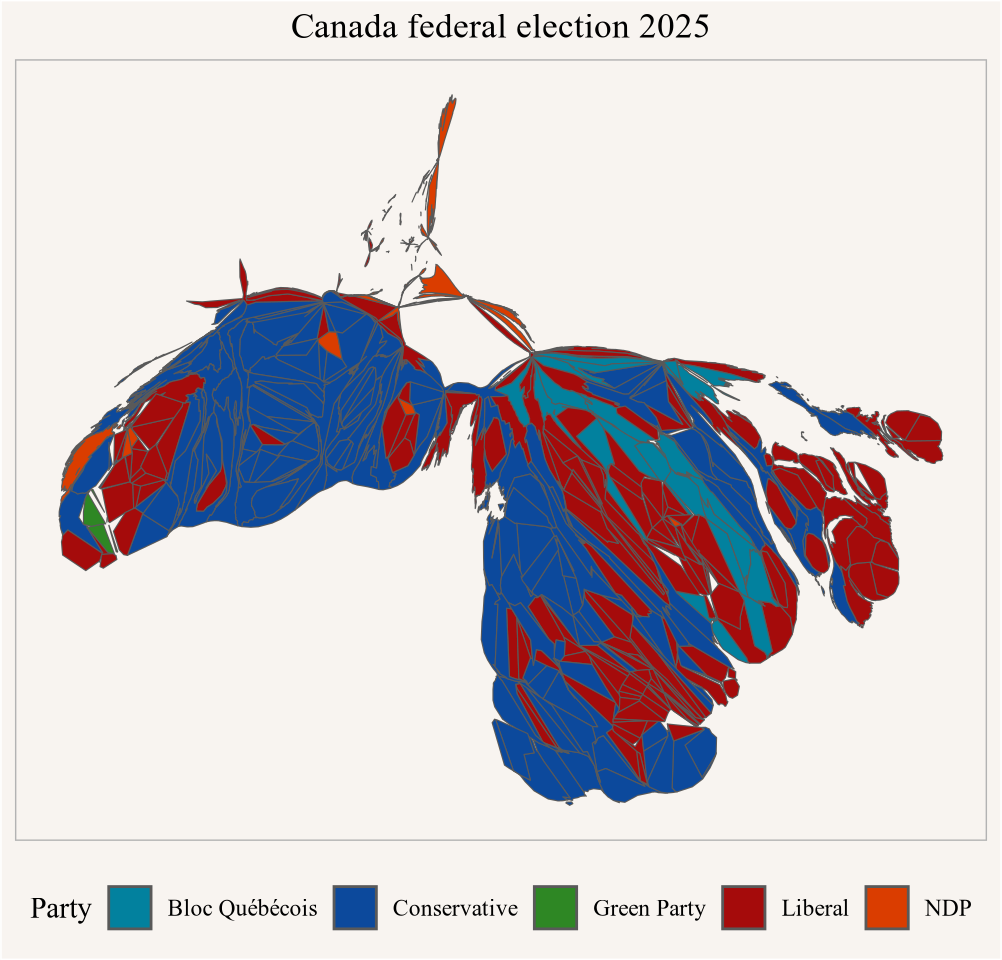
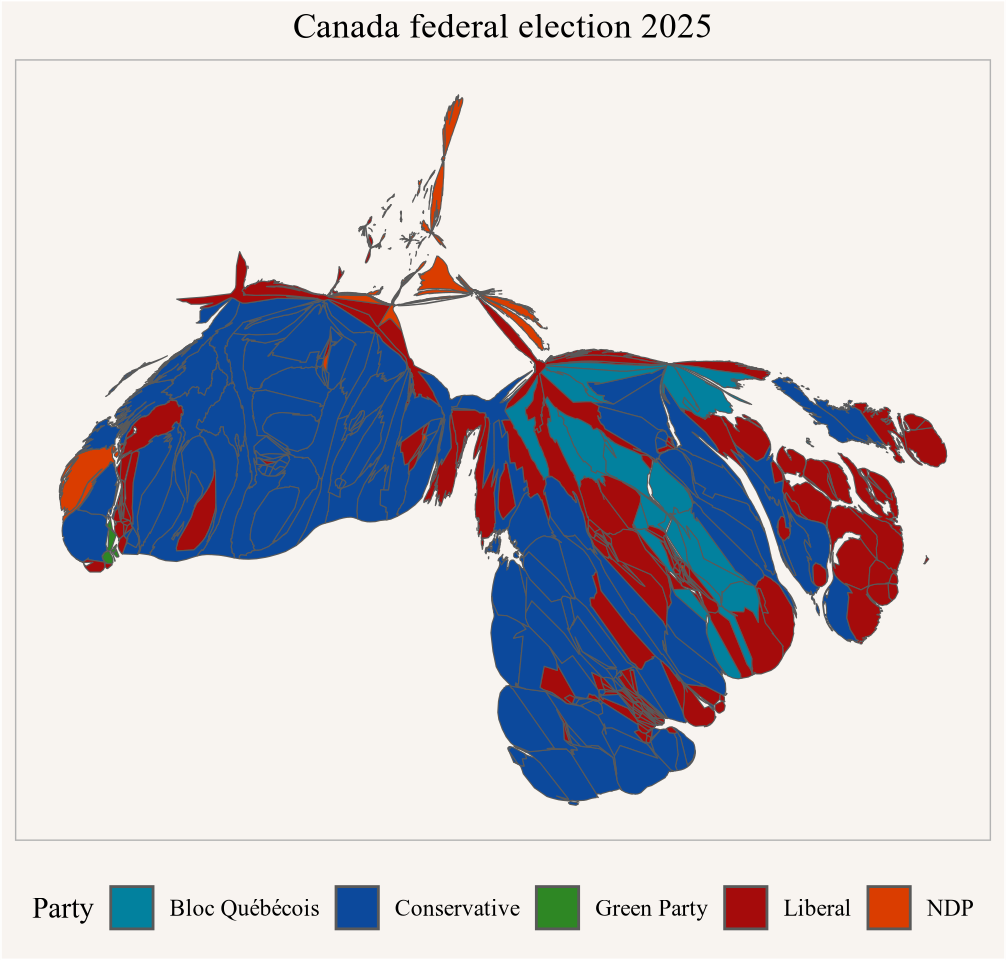
update recomputed continuous cartogram with flipped riding

diff --git a/posts/2025-04-28-elections-fun---2025-edition/index.html.md b/posts/2025-04-28-elections-fun---2025-edition/index.html.md
@@ -251,7 +251,7 @@ cartogram_data <- simpleCache({
     mutate(area_rank=rank(a),
            total_area=sum(a),.by=FEDUID) |>
     mutate(pop=Total*a/total_area) |>
-    ms_simplify(keep=0.05) |>
+    ms_simplify(keep=0.1) |>
     cartogram_cont(weight="pop",
                    itermax = 150,
                    maxSizeError = 1.1,
@@ -266,7 +266,7 @@ cartogram_data |>
   scale_fill_manual(values=party_colours) +
   coord_sf(datum=NA) +
   theme(legend.position = "bottom") +
-  labs(title="Canada federal election 2025") 
+  labs(title="Canada federal election 2025")
 ```
 
 ::: {.cell-output-display}
@@ -912,7 +912,7 @@ Sys.time()
 ::: {.cell-output .cell-output-stdout}
 
 ```
-[1] "2025-05-01 14:25:03 PDT"
+[1] "2025-05-01 17:05:10 PDT"
 ```
 
 
@@ -928,7 +928,7 @@ git2r::repository()
 ```
 Local:    main /Users/jens/R/mountain_doodles
 Remote:   main @ origin (https://github.com/mountainMath/mountain_doodles.git)
-Head:     [d853bf2] 2025-05-01: update cbc data and re-run to update the data used for the live animation with the recount flipping one rinding
+Head:     [9e682a7] 2025-05-01: update to reflect the flipped seats in all the graphs
 ```
 
 
@@ -970,28 +970,19 @@ other attached packages:
 [15] tidyverse_2.0.0          
 
 loaded via a namespace (and not attached):
- [1] gtable_0.3.6        xfun_0.50           htmlwidgets_1.6.4  
- [4] lattice_0.22-6      tzdb_0.5.0          vctrs_0.6.5        
- [7] tools_4.4.2         generics_0.1.3      curl_6.2.2         
-[10] parallel_4.4.2      proxy_0.4-27        R.oo_1.26.0        
-[13] pkgconfig_2.0.3     KernSmooth_2.23-24  lifecycle_1.0.4    
-[16] git2r_0.33.0        farver_2.1.2        compiler_4.4.2     
-[19] tinytex_0.57        munsell_0.5.1       codetools_0.2-20   
-[22] htmltools_0.5.8.1   class_7.3-22        yaml_2.3.10        
-[25] pillar_1.10.2       crayon_1.5.3        aws.s3_0.3.21      
-[28] R.utils_2.12.3      classInt_0.4-11     magick_2.8.3       
-[31] mime_0.12           tidyselect_1.2.1    digest_0.6.37      
-[34] stringi_1.8.7       labeling_0.4.3      fastmap_1.2.0      
-[37] grid_4.4.2          colorspace_2.1-1    cli_3.6.4          
-[40] magrittr_2.0.3      base64enc_0.1-3     aws.signature_0.6.0
-[43] e1071_1.7-16        withr_3.0.2         scales_1.3.0       
-[46] sp_2.1-4            bit64_4.6.0-1       timechange_0.3.0   
-[49] rmarkdown_2.28      bit_4.6.0           R.methodsS3_1.8.2  
-[52] hms_1.1.3           evaluate_1.0.3      knitr_1.48         
-[55] V8_6.0.3            rlang_1.1.6         Rcpp_1.0.14        
-[58] glue_1.8.0          DBI_1.2.3           xml2_1.3.7         
-[61] rstudioapi_0.17.1   vroom_1.6.5         jsonlite_2.0.0     
-[64] R6_2.6.1            units_0.8-7        
+ [1] generics_0.1.3     class_7.3-22       KernSmooth_2.23-24 lattice_0.22-6    
+ [5] stringi_1.8.7      hms_1.1.3          digest_0.6.37      magrittr_2.0.3    
+ [9] evaluate_1.0.3     grid_4.4.2         timechange_0.3.0   fastmap_1.2.0     
+[13] jsonlite_2.0.0     e1071_1.7-16       DBI_1.2.3          tinytex_0.57      
+[17] scales_1.3.0       codetools_0.2-20   cli_3.6.4          rlang_1.1.6       
+[21] units_0.8-7        munsell_0.5.1      withr_3.0.2        yaml_2.3.10       
+[25] tools_4.4.2        tzdb_0.5.0         colorspace_2.1-1   curl_6.2.2        
+[29] vctrs_0.6.5        R6_2.6.1           git2r_0.33.0       magick_2.8.3      
+[33] proxy_0.4-27       lifecycle_1.0.4    classInt_0.4-11    V8_6.0.3          
+[37] htmlwidgets_1.6.4  pkgconfig_2.0.3    pillar_1.10.2      gtable_0.3.6      
+[41] glue_1.8.0         Rcpp_1.0.14        xfun_0.50          tidyselect_1.2.1  
+[45] rstudioapi_0.17.1  knitr_1.48         farver_2.1.2       htmltools_0.5.8.1 
+[49] rmarkdown_2.28     compiler_4.4.2     sp_2.1-4          
 ```
 
 
